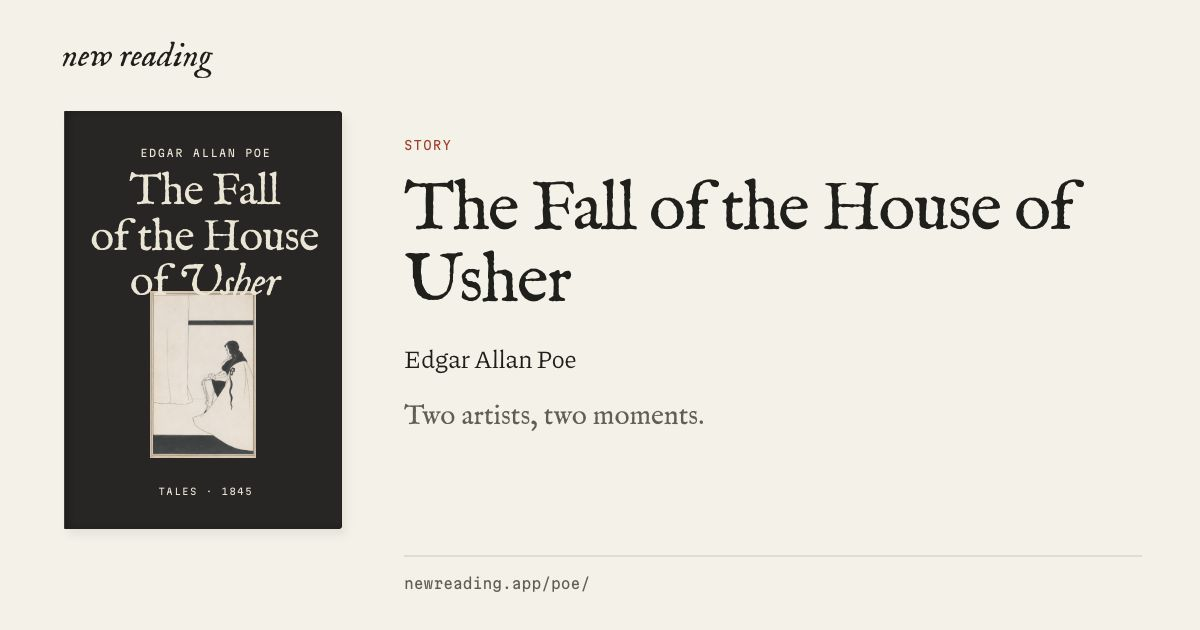
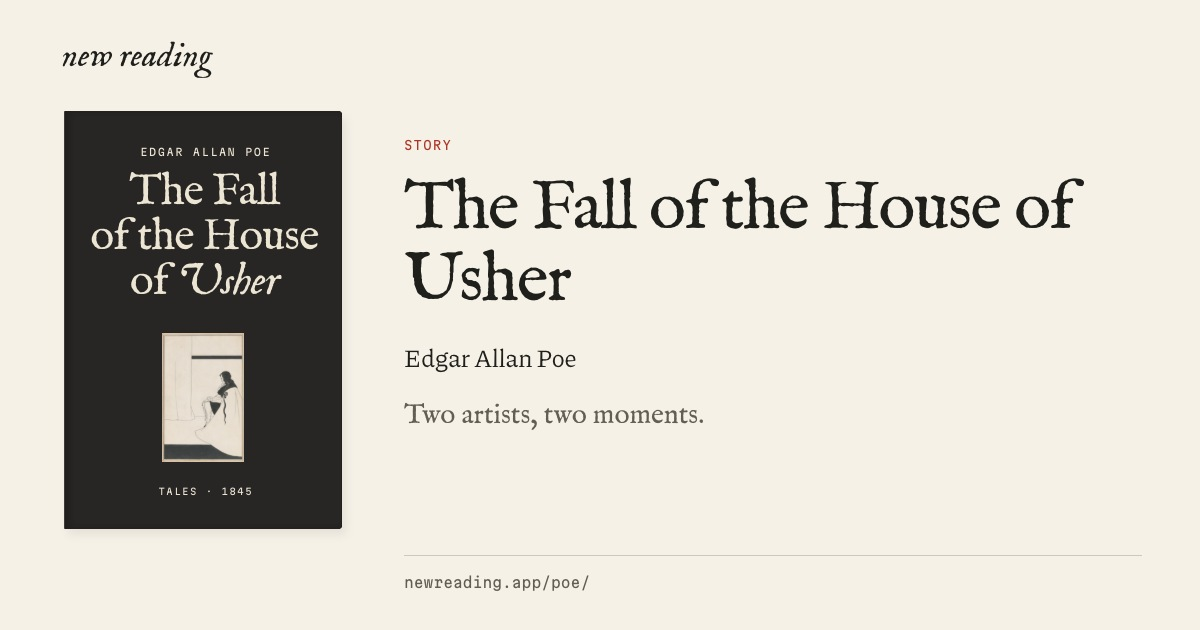
Give the Usher cover title and illustration room

diff --git a/showcase/shelf/covers.css b/showcase/shelf/covers.css
@@ -83,7 +83,7 @@
 .mixed-library .cover-douglass .cover-bottom{font-size:3.1cqw}
 .mixed-library .cover-poe{background:#282625;color:#ece5d3}
 .mixed-library .cover-poe strong{top:14%;font-family:Fell,Georgia,serif;font-size:16cqw;line-height:1.02}
-.mixed-library .cover-poe img{position:absolute;left:25%;top:43%;width:50%;height:40%;object-fit:contain}
+.mixed-library .cover-poe img{position:absolute;left:25%;top:53%;width:50%;height:31%;object-fit:contain}
 .mixed-library .cover-poe .cover-meta{font-size:3.7cqw;letter-spacing:.15em}
 .mixed-library .cover-poe .cover-bottom{font-size:3.3cqw;letter-spacing:.16em}
 .mixed-library .cover-ballads{background:#f0eee4;color:#2c5040}

diff --git a/showcase/library/style.css b/showcase/library/style.css
@@ -116,7 +116,7 @@ dialog{padding:0;border:1px solid var(--line);background:var(--paper);color:var(
 .cover-douglass .cover-bottom{font-size:3.1cqw}
 .cover-poe{background:#282625;color:#ece5d3}
 .cover-poe strong{top:14%;font-family:Fell,Georgia,serif;font-size:16cqw;line-height:1.02}
-.cover-poe img{position:absolute;left:25%;top:43%;width:50%;height:40%;object-fit:contain}
+.cover-poe img{position:absolute;left:25%;top:53%;width:50%;height:31%;object-fit:contain}
 .cover-poe .cover-meta{font-size:3.7cqw;letter-spacing:.15em}
 .cover-poe .cover-bottom{font-size:3.3cqw;letter-spacing:.16em}
 
